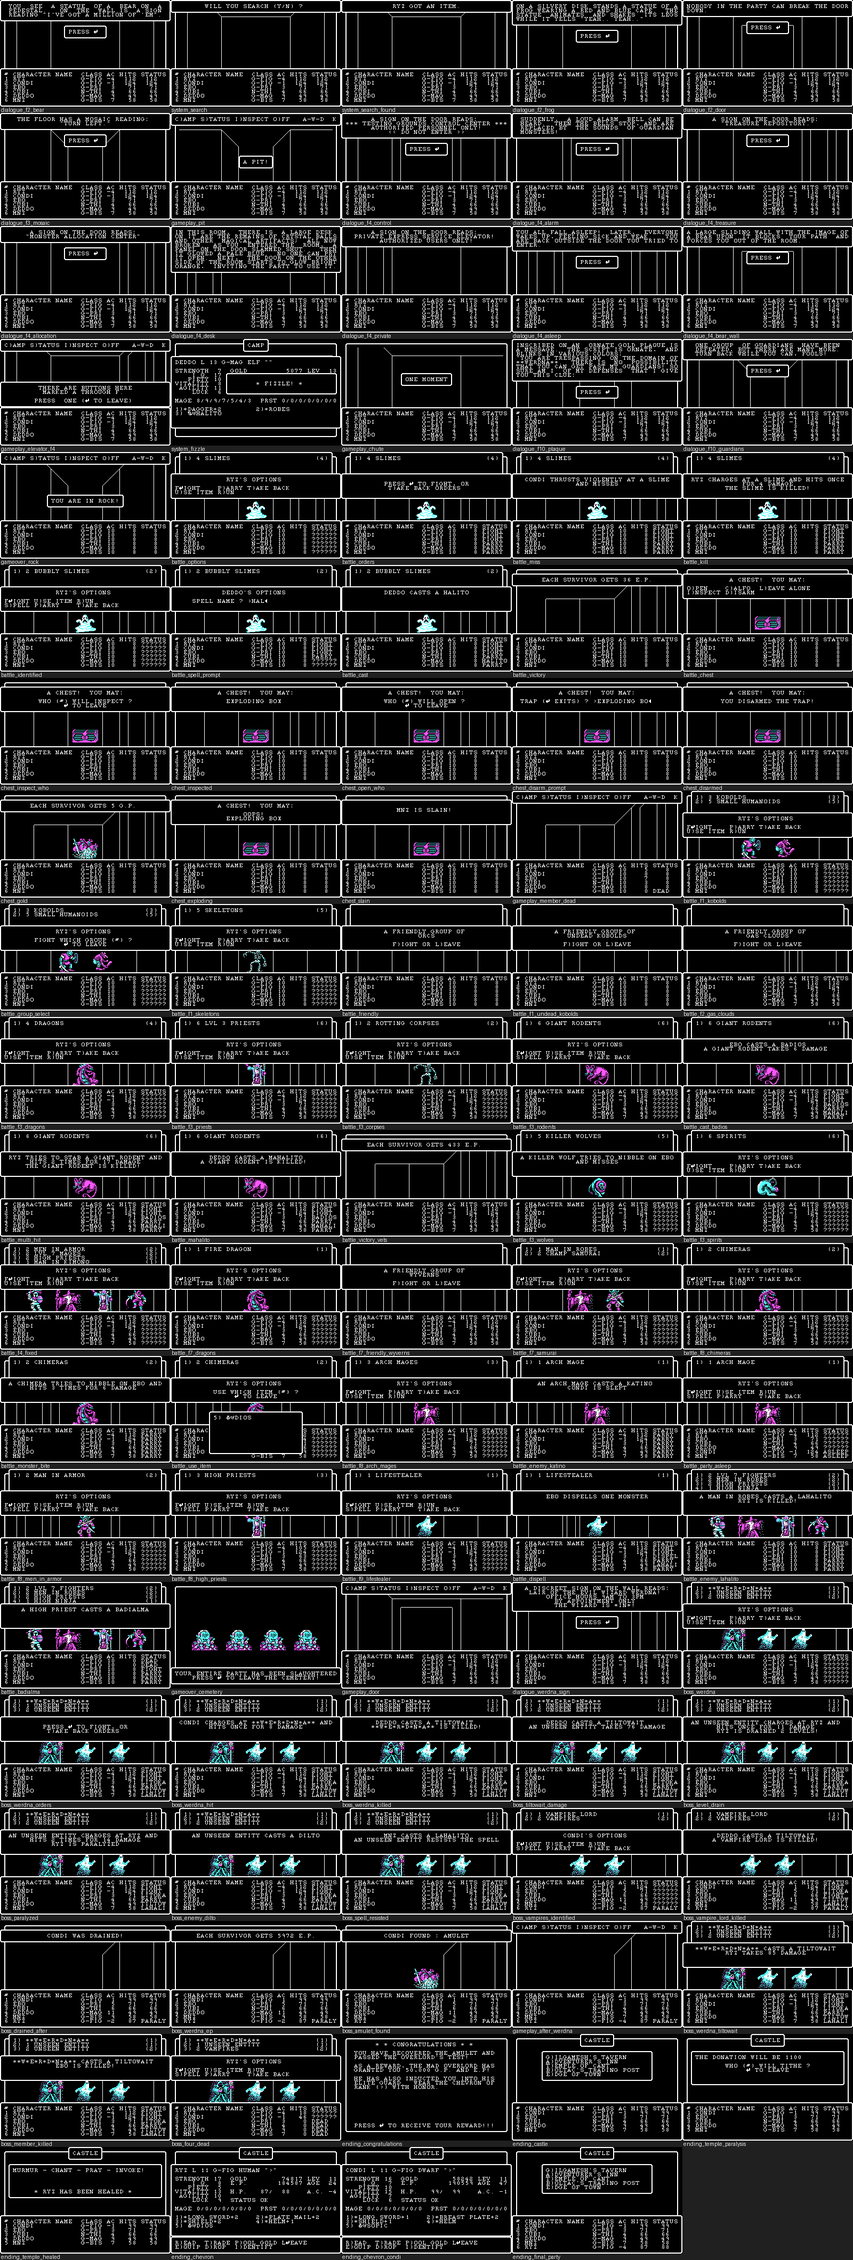
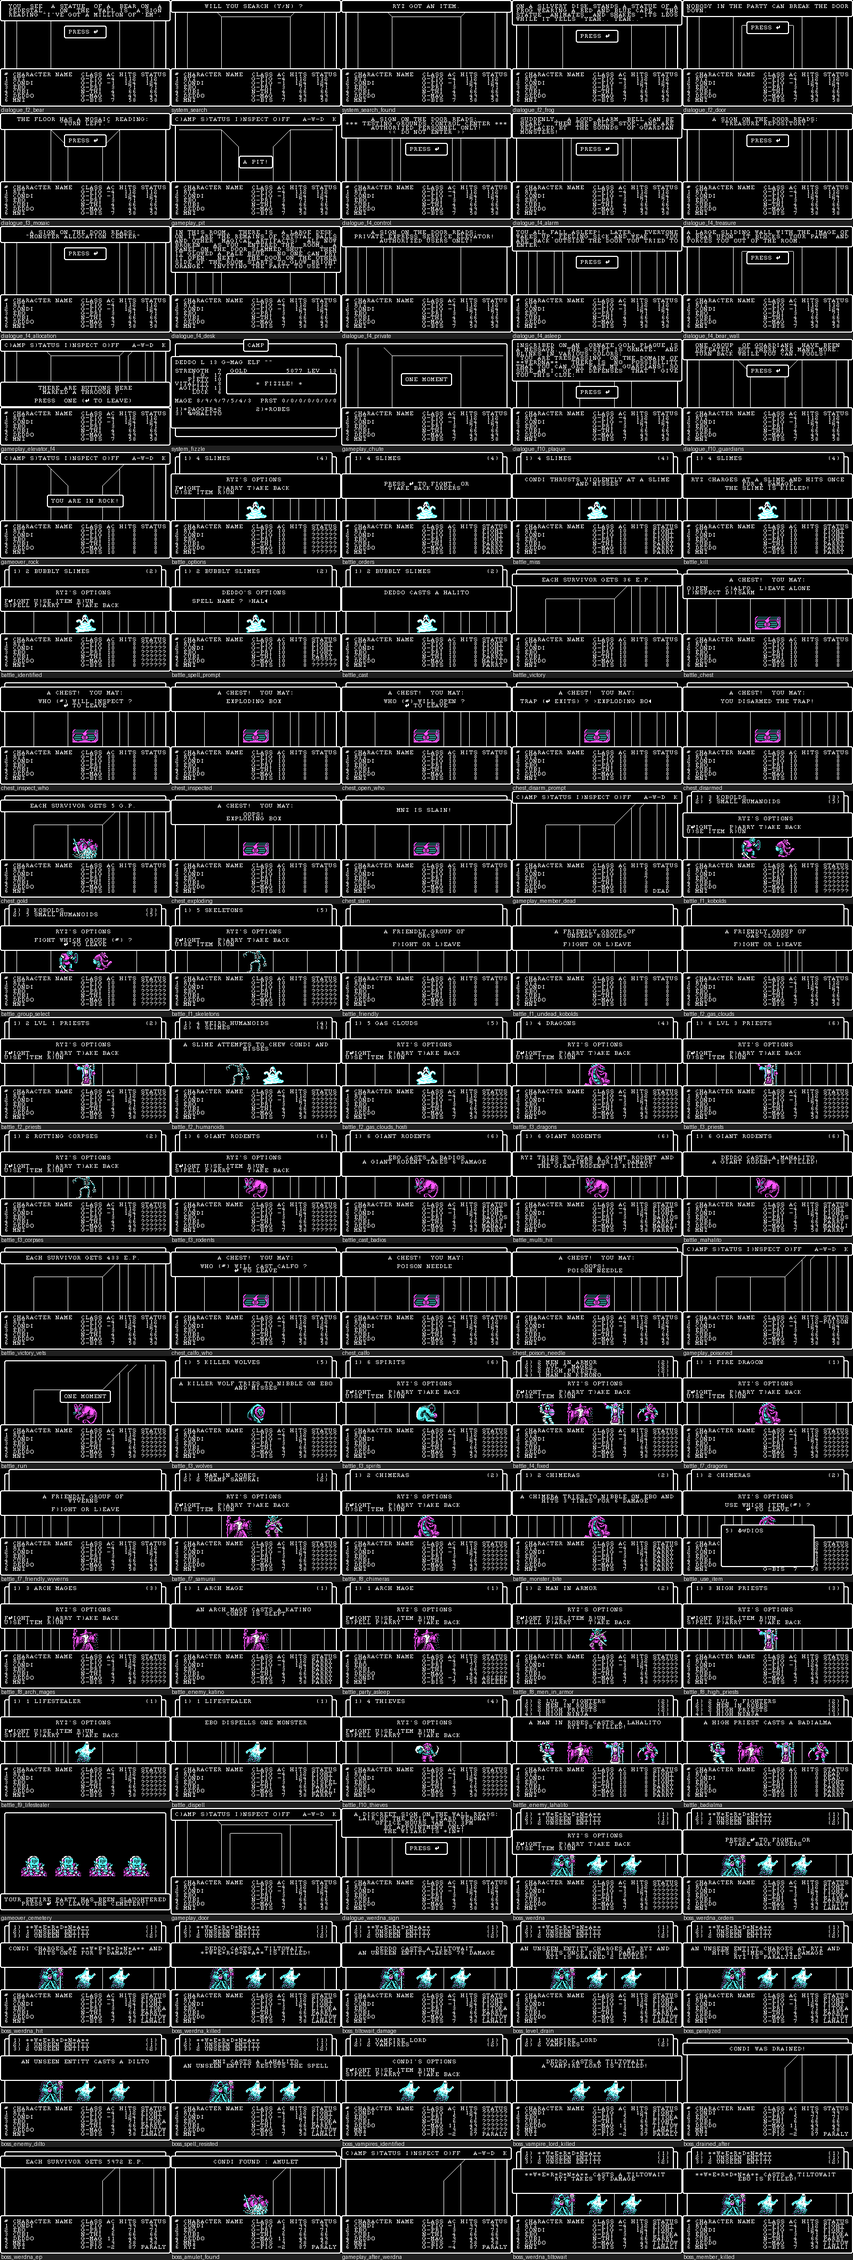
wizardry (DOS): capture round 2 - Calfo, poison needle, run, floors 2 and 10 fights (208 shots)
Claude-Session: https://claude.ai/code/session_011YfKegpS5y4sVPPForxFoG

diff --git a/games/dos/wizardry/shots/main/index.md b/games/dos/wizardry/shots/main/index.md
@@ -1,6 +1,6 @@
 # Wizardry: Proving Grounds of the Mad Overlord (DOS) - shots: main
 
-Platform dos, region na, model ega-315, ROM SHA-1 `32c93888de1e0def3485cb667a1ddd9844189035`. 199 shots. Contact sheet: [wizardry_dos_na_set_sheet.png](wizardry_dos_na_set_sheet.png). Originals here, 3x nearest-neighbour copies with the same names in `3x/`. File names: `<game>_<platform>_<region>_<category>_<id>.png`.
+Platform dos, region na, model ega-315, ROM SHA-1 `32c93888de1e0def3485cb667a1ddd9844189035`. 208 shots. Contact sheet: [wizardry_dos_na_set_sheet.png](wizardry_dos_na_set_sheet.png). Originals here, 3x nearest-neighbour copies with the same names in `3x/`. File names: `<game>_<platform>_<region>_<category>_<id>.png`.
 
 | id | category | caption | settled | image |
 |---|---|---|---|---|
@@ -149,6 +149,9 @@ Platform dos, region na, model ega-315, ROM SHA-1 `32c93888de1e0def3485cb667a1dd
 | battle_friendly | battle | "A friendly group of Orcs" - F)ight or L)eave | yes | [png](wizardry_dos_na_battle_battle_friendly.png) [3x](3x/wizardry_dos_na_battle_battle_friendly.png) |
 | battle_f1_undead_kobolds | battle | Floor 1: a friendly group of Undead kobolds | yes | [png](wizardry_dos_na_battle_battle_f1_undead_kobolds.png) [3x](3x/wizardry_dos_na_battle_battle_f1_undead_kobolds.png) |
 | battle_f2_gas_clouds | battle | Floor 2: a friendly group of Gas clouds | yes | [png](wizardry_dos_na_battle_battle_f2_gas_clouds.png) [3x](3x/wizardry_dos_na_battle_battle_f2_gas_clouds.png) |
+| battle_f2_priests | battle | Floor 2: 2 Lvl 1 priests | yes | [png](wizardry_dos_na_battle_battle_f2_priests.png) [3x](3x/wizardry_dos_na_battle_battle_f2_priests.png) |
+| battle_f2_humanoids | battle | Floor 2: Weird humanoids and Slimes; a slime chews at CONDI and misses | yes | [png](wizardry_dos_na_battle_battle_f2_humanoids.png) [3x](3x/wizardry_dos_na_battle_battle_f2_humanoids.png) |
+| battle_f2_gas_clouds_hostile | battle | Floor 2: 5 Gas clouds, hostile this time | yes | [png](wizardry_dos_na_battle_battle_f2_gas_clouds_hostile.png) [3x](3x/wizardry_dos_na_battle_battle_f2_gas_clouds_hostile.png) |
 | battle_f3_dragons | battle | Floor 3: 4 Dragons (unidentified), the veterans surprised them | yes | [png](wizardry_dos_na_battle_battle_f3_dragons.png) [3x](3x/wizardry_dos_na_battle_battle_f3_dragons.png) |
 | battle_f3_priests | battle | Floor 3: 6 Lvl 3 priests | yes | [png](wizardry_dos_na_battle_battle_f3_priests.png) [3x](3x/wizardry_dos_na_battle_battle_f3_priests.png) |
 | battle_f3_corpses | battle | Floor 3: 2 Rotting corpses, undead | yes | [png](wizardry_dos_na_battle_battle_f3_corpses.png) [3x](3x/wizardry_dos_na_battle_battle_f3_corpses.png) |
@@ -157,6 +160,11 @@ Platform dos, region na, model ega-315, ROM SHA-1 `32c93888de1e0def3485cb667a1dd
 | battle_multi_hit | battle | "RYZ tries to stab a giant rodent and hits 3 times ... killed!" | yes | [png](wizardry_dos_na_battle_battle_multi_hit.png) [3x](3x/wizardry_dos_na_battle_battle_multi_hit.png) |
 | battle_mahalito | battle | "DEDDO casts a MAHALITO": a giant rodent is killed | yes | [png](wizardry_dos_na_battle_battle_mahalito.png) [3x](3x/wizardry_dos_na_battle_battle_mahalito.png) |
 | battle_victory_vets | battle | "Each survivor gets 433 E.P." after the rodents | yes | [png](wizardry_dos_na_battle_battle_victory_vets.png) [3x](3x/wizardry_dos_na_battle_battle_victory_vets.png) |
+| chest_calfo_who | battle | C)alfo on the rodents' chest: "Who (#) will cast Calfo?" | yes | [png](wizardry_dos_na_battle_chest_calfo_who.png) [3x](3x/wizardry_dos_na_battle_chest_calfo_who.png) |
+| chest_calfo | battle | EBO's CALFO names the trap: "Poison needle" | yes | [png](wizardry_dos_na_battle_chest_calfo.png) [3x](3x/wizardry_dos_na_battle_chest_calfo.png) |
+| chest_poison_needle | battle | RYZ opens anyway: "Oops! Poison needle" | yes | [png](wizardry_dos_na_battle_chest_poison_needle.png) [3x](3x/wizardry_dos_na_battle_chest_poison_needle.png) |
+| gameplay_poisoned | gameplay | After the chest: RYZ shows POISON in the party window | yes | [png](wizardry_dos_na_gameplay_gameplay_poisoned.png) [3x](3x/wizardry_dos_na_gameplay_gameplay_poisoned.png) |
+| battle_run | battle | R)un from 6 Giant rodents: the party flees - "One moment" | yes | [png](wizardry_dos_na_battle_battle_run.png) [3x](3x/wizardry_dos_na_battle_battle_run.png) |
 | battle_f3_wolves | battle | Floor 3: 5 Killer wolves strike first - one nibbles at CONDI and misses | yes | [png](wizardry_dos_na_battle_battle_f3_wolves.png) [3x](3x/wizardry_dos_na_battle_battle_f3_wolves.png) |
 | battle_f3_spirits | battle | Floor 3: 6 Spirits | yes | [png](wizardry_dos_na_battle_battle_f3_spirits.png) [3x](3x/wizardry_dos_na_battle_battle_f3_spirits.png) |
 | battle_f4_fixed | battle | Floor 4 guard room: men in armor, Lvl 7 mages, high priests, man in kimono | yes | [png](wizardry_dos_na_battle_battle_f4_fixed.png) [3x](3x/wizardry_dos_na_battle_battle_f4_fixed.png) |
@@ -173,6 +181,7 @@ Platform dos, region na, model ega-315, ROM SHA-1 `32c93888de1e0def3485cb667a1dd
 | battle_f8_high_priests | battle | Floor 8: 3 High priests | yes | [png](wizardry_dos_na_battle_battle_f8_high_priests.png) [3x](3x/wizardry_dos_na_battle_battle_f8_high_priests.png) |
 | battle_f9_lifestealer | battle | Floor 9: a Lifestealer | yes | [png](wizardry_dos_na_battle_battle_f9_lifestealer.png) [3x](3x/wizardry_dos_na_battle_battle_f9_lifestealer.png) |
 | battle_dispell | battle | D)ispell by EBO: "EBO dispells one monster" (the Lifestealer) | yes | [png](wizardry_dos_na_battle_battle_dispell.png) [3x](3x/wizardry_dos_na_battle_battle_dispell.png) |
+| battle_f10_thieves | battle | Floor 10: 4 Thieves | yes | [png](wizardry_dos_na_battle_battle_f10_thieves.png) [3x](3x/wizardry_dos_na_battle_battle_f10_thieves.png) |
 | battle_enemy_lahalito | battle | Level 1 party on floor 4: "A man in robes casts a LAHALITO - RYZ is killed!" | yes | [png](wizardry_dos_na_battle_battle_enemy_lahalito.png) [3x](3x/wizardry_dos_na_battle_battle_enemy_lahalito.png) |
 | battle_badialma | battle | "A high priest casts a BADIALMA" - RYZ, CONDI and EBO already DEAD | no | [png](wizardry_dos_na_battle_battle_badialma.png) [3x](3x/wizardry_dos_na_battle_battle_badialma.png) |
 | gameover_cemetery | gameover | Tombstones: "Your entire party has been slaughtered. Press Enter ..." | yes | [png](wizardry_dos_na_gameover_gameover_cemetery.png) [3x](3x/wizardry_dos_na_gameover_gameover_cemetery.png) |

diff --git a/games/dos/wizardry/design/systems.md b/games/dos/wizardry/design/systems.md
@@ -45,15 +45,15 @@ harder and the player's own paper maps grow, since the game shows no map (DUMAPI
 | Conflict | Friendly groups | some groups are friendly: F)ight or L)eave | F, L | - | - | `battle_friendly`, `battle_f1_undead_kobolds`, `battle_f2_gas_clouds`, `battle_f7_friendly_wyverns` | shown |
 | Conflict | Dispell | priests (and the elite classes) turn undead: "EBO dispells one monster"; dispelled monsters give no E.P. | D | 0 E.P. (verified for the Lifestealer) | - | `battle_dispell` | shown |
 | Conflict | Use item | U)se in battle or camp casts the item's spell (potion of Dios heals) | U, item number, target | - | - | `battle_use_item`, `camp_use_item` | shown |
-| Conflict | Run | R)un tries to flee; on a failed try the round goes on | R | - | - | - | described: one try failed, no clean frame of the flight |
-| Conflict | Status conditions | asleep (Katino), paralyzed, dead, ashes, lost; sleeping and paralyzed members move to the back of the party | - | - | - | `battle_enemy_katino`, `battle_party_asleep`, `boss_paralyzed`, `boss_four_dead`, `temple_lost_party` | shown |
+| Conflict | Run | R)un tries to flee; on success "One moment" and the party is back in the maze, on a failed try the monsters act | R | 3 of 4 timings fled from six giant rodents | - | `battle_run` | shown |
+| Conflict | Status conditions | asleep (Katino), poisoned (`gameplay_poisoned`), paralyzed, dead, ashes, lost; sleeping and paralyzed members move to the back of the party | - | - | - | `battle_enemy_katino`, `battle_party_asleep`, `boss_paralyzed`, `boss_four_dead`, `temple_lost_party` | shown |
 | Conflict | Spell resistance | monsters can resist a spell ("an unseen entity resists the spell") | - | - | - | `boss_spell_resisted` | shown |
 | Opponents | Groups | up to four named groups with counts; a group's picture shows in the view | - | - | content §3 | `battle_f4_fixed`, `boss_werdna` | shown |
 | Opponents | Monster spells | monster casters use the party's spell list: Katino, Lahalito, Badialma, Dilto, Molito, Tiltowait | - | - | content §3 | `battle_enemy_katino`, `battle_enemy_lahalito`, `battle_badialma`, `boss_enemy_dilto`, `boss_werdna_tiltowait` | shown |
 | Opponents | Fixed fights | squares that always start a fight (floor 3, 4, 7 and Werdna on 10) | - | - | [maps](maps/floors.txt) | `battle_f4_fixed`, `battle_f7_dragons`, `boss_werdna` | shown |
-| Opponents | Random encounters | fight zones ("rooms") start fights when entered or turned in; the group comes from the floor's encounter table | - | floor 1: monsters 0-5, floor 10: 70-86 (disk data) | [maps](maps/floors.txt) | `battle_f1_kobolds` ... `battle_f9_lifestealer` | shown |
+| Opponents | Random encounters | fight zones ("rooms") start fights when entered or turned in; the group comes from the floor's encounter table | - | floor 1: monsters 0-5, floor 10: 70-86 (disk data) | [maps](maps/floors.txt) | `battle_f1_kobolds`, `battle_f2_priests`, `battle_f2_humanoids`, `battle_f2_gas_clouds_hostile`, `battle_f9_lifestealer`, `battle_f10_thieves` | shown |
 | Items and equipment | Equipment | weapons, armour, shields, helms, gauntlets, misc; equipped items marked "*"; armour class drops from 10 | E)quip | AC -4 with plate+2, shield+2, helm+1 | [items](items.md) | `inventory_sheet_vet`, `menu_castle_vets` | shown |
-| Items and equipment | Chests and traps | a won fight may leave a chest: open, Calfo, leave, inspect, disarm; a trap goes off on opening (exploding box: a member slain); disarm needs the trap's name typed | O C L I D | - | §6 | `battle_chest`, `chest_*` | shown |
+| Items and equipment | Chests and traps | a won fight may leave a chest: open, Calfo (a priest names the trap), leave, inspect, disarm; a trap goes off on opening (exploding box: a member slain; poison needle: POISON); disarm needs the trap's name typed | O C L I D | - | §6 | `battle_chest`, `chest_calfo_who`, `chest_calfo`, `chest_poison_needle`, `chest_exploding`, `chest_disarmed` | shown |
 | Items and equipment | Identification and curses | found items are unknown ("?SWORD"); a bishop identifies (I on the sheet) or Boltac for gold; a cursed item ("-") stays equipped until Boltac uncurses (removes) it | I, U | - | [items](items.md) | `shop_identify`, `shop_identified`, `inventory_bishop_identify`, `inventory_identified`, `shop_uncurse` | shown |
 | Abilities and magic | Spells | typed by name ("Spell name ?") in battle and camp; 21 mage and 29 priest spells in 7 levels, points per level | S, name, Enter, target | points per level | content §5 | `battle_spell_prompt`, `inventory_mage_book`, `inventory_priest_book`, `camp_cast_whom` | shown |
 | Abilities and magic | Utility spells | DUMAPIC reports the position; MALOR teleports by offsets (E/W/N/S/U/D); healing with DIOS | camp | - | content §5 | `system_dumapic`, `camp_malor` | shown |
@@ -118,7 +118,7 @@ harder and the player's own paper maps grow, since the game shows no map (DUMAPI
   taken out of the party at the Castle.
 
 ## Open questions
-- Run: the chance to flee and what decides it.
+- Run: the chance to flee and what decides it (3 of 4 timings fled from the rodents).
 - The searchable statues on floor 1 (chicken, hooded man, boar) asked nothing in any approach tried (see
   findings); Murphy's ghost was not met.
-- Poison, criticals and stoning were not seen.
+- Criticals and stoning were not seen.

diff --git a/games/dos/wizardry/design/content.md b/games/dos/wizardry/design/content.md
@@ -42,11 +42,13 @@ Unidentified names as shown first; the real name where the fight revealed it.
 | Kobolds, Small humanoids | floor 1 | small armed humanoids | two groups at once | `battle_f1_kobolds` |
 | Skeletons | floor 1 | skeleton | undead | `battle_f1_skeletons` |
 | Orcs, Undead kobolds | floor 1 | friendly groups | let the party leave | `battle_friendly`, `battle_f1_undead_kobolds` |
-| Gas clouds | floor 2 | friendly | - | `battle_f2_gas_clouds` |
+| Gas clouds | floor 2 | cloud; friendly or hostile | - | `battle_f2_gas_clouds`, `battle_f2_gas_clouds_hostile` |
+| Lvl 1 priests | floor 2 | robed human | - | `battle_f2_priests` |
+| Weird humanoids, Slimes | floor 2 | two groups | strike first | `battle_f2_humanoids` |
 | Dragons (unidentified) | floor 3 | small dragon | - | `battle_f3_dragons` |
 | Lvl 3 priests | floor 3 | robed human | casters | `battle_f3_priests` |
 | Rotting corpses | floor 3 | zombie | undead | `battle_f3_corpses` |
-| Giant rodents | floor 3 | rat | six at a time, some run away | `battle_f3_rodents`, `battle_cast_badios`, `battle_multi_hit`, `battle_mahalito`, `battle_victory_vets` |
+| Giant rodents | floor 3 | rat | six at a time, some run away | `battle_f3_rodents`, `battle_cast_badios`, `battle_multi_hit`, `battle_mahalito`, `battle_victory_vets`, `battle_run` |
 | Killer wolves | floor 3 | wolf | strike first | `battle_f3_wolves` |
 | Spirits | floor 3 | ghost | - | `battle_f3_spirits` |
 | Men in armor, Lvl 7 mages, High priests, Man in kimono | floor 4 guard room (fixed) | four groups of humans | Lahalito and Badialma kill a level 1 party in one round | `battle_f4_fixed`, `battle_enemy_lahalito`, `battle_badialma`, `gameover_cemetery` |
@@ -57,6 +59,7 @@ Unidentified names as shown first; the real name where the fight revealed it.
 | Arch mages | floor 8 | robed mage | cast Katino: party members fall asleep | `battle_f8_arch_mages`, `battle_enemy_katino`, `battle_party_asleep` |
 | Men in armor | floor 8 | armoured fighter | - | `battle_f8_men_in_armor` |
 | High priests | floor 8 | priest | - | `battle_f8_high_priests` |
+| Thieves | floor 10 | thief with a blade | - | `battle_f10_thieves` |
 | Lifestealer | floor 9 | ghost | undead, casts Katino; dispelled | `battle_f9_lifestealer`, `battle_dispell` |
 | Vampire lord, Vampires ("unseen entities") | floor 10, Werdna's guards | ghost-like picture | drain 2 levels per touch, paralyze, cast Dilto and Molito; resist spells | `boss_level_drain`, `boss_paralyzed`, `boss_enemy_dilto`, `boss_spell_resisted`, `boss_vampires_identified`, `boss_vampire_lord_killed`, `boss_drained_after` |
 | Werdna ("**W*E*R*D*N*A**", or "Man in robes" unidentified) | floor 10 (17,3) | robed wizard with a staff | boss; casts Tiltowait; 71 hit points in this fight (RAM) | `boss_werdna`, `boss_werdna_orders`, `boss_werdna_hit`, `boss_werdna_killed`, `boss_tiltowait_damage`, `boss_werdna_tiltowait`, `boss_member_killed`, `boss_four_dead`, `boss_werdna_ep` |
@@ -75,7 +78,7 @@ A spread over types and tiers; the full table with numbers and prices is [items.
 | Ring of Porfic | ring | found | identified by the bishop | `inventory_bishop_identify`, `inventory_identified` |
 | Robe of curses ("-") | cursed armour | found | removed by Boltac's uncurse | `shop_uncurse`, `shop_uncursed` |
 | Statue of bear | quest item | floor 2 statue | opens the floor 2 door (source) | `system_search_found` |
-| Chest | container | after fights | trapped loot | `battle_chest`, `chest_inspect_who`, `chest_inspected`, `chest_open_who`, `chest_disarm_prompt`, `chest_disarmed`, `chest_gold`, `chest_exploding`, `chest_slain` |
+| Chest | container | after fights | trapped loot | `battle_chest`, `chest_inspect_who`, `chest_inspected`, `chest_open_who`, `chest_disarm_prompt`, `chest_disarmed`, `chest_gold`, `chest_exploding`, `chest_slain`, `chest_calfo_who`, `chest_poison_needle`, `gameplay_poisoned` |
 | Werdna's amulet (item 94) | quest item | Werdna | ends the game when brought to the castle | `boss_amulet_found`, `ending_congratulations` |
 
 ## 5. Abilities and spells
@@ -88,6 +91,7 @@ A spread over types and tiers; the full table with numbers and prices is [items.
 | DILTO | mage 2 | - | darkness on a group (cast by the vampires) | `boss_enemy_dilto` |
 | MALOR | mage 7 | - | teleport by offsets (in camp) | `camp_malor` |
 | TILTOWAIT | mage 7 | - | huge damage to every monster (or every member, when Werdna casts it) | `boss_werdna_killed`, `boss_tiltowait_damage`, `boss_werdna_tiltowait` |
+| CALFO | priest 2 | - | names a chest's trap | `chest_calfo` |
 | DIOS | priest 1 | - | heals one member | `camp_cast_whom` |
 | BADIOS | priest 1 | - | wounds one monster | `battle_cast_badios` |
 | LITOKAN | priest 5 | - | flames on a group | `boss_werdna_orders` |

diff --git a/games/dos/wizardry/design/interface.md b/games/dos/wizardry/design/interface.md
@@ -35,7 +35,7 @@ as **Observation:** with the reason, never as a fact.
 - **State visibility:** the party window always shows class, armour class, hit points and status (the
   status column shows the maximum hit points when the character is well, else DEAD, ASLEEP, PARALY, LOST,
   ASHES; in battle the order given or "??????") (verified: `battle_orders`, `boss_four_dead`,
-  `temple_lost_party`). Position, floor and facing are never shown except by DUMAPIC (verified:
+  `temple_lost_party`, `gameplay_poisoned`). Position, floor and facing are never shown except by DUMAPIC (verified:
   `system_dumapic`). Item marks: "*" equipped, "-" cursed, "?" unknown, "#" unusable (verified, [items](items.md)).
 - **Help and onboarding:** none beyond the letter menus; the title warns "You cannot play without making a
   scenario disk!" (verified: `title_screen`).
@@ -72,11 +72,11 @@ Type: `screen`, `menu`, `prompt`, `list`, `message`, `hud element`, `transition`
 | Square prompts | prompt | stairs, elevators, statues | move, search | "Stairs up, take them (Y/N)?", "buttons A through D/F", "Will you search (Y/N)?" | Y N, letters | "RYZ got an item." | `gameplay_stairs`, `gameplay_elevator`, `gameplay_elevator_f4`, `system_search`, `system_search_found` | - |
 | Signs and scenes | message | stepping on a message square | story, hints, gates | framed text, "Press Enter" | Enter | - | `dialogue_*` | long texts fill the whole top box |
 | Square events | message | pit, chute, rock | hazards | "A pit!", "One moment", "You are in rock!" | - | - | `gameplay_pit`, `gameplay_chute`, `gameover_rock` | - |
-| Battle | screen | encounter | fight | monster groups with counts, member options, picture, party orders | F P S D U R T, 1-4 | "Press Enter to fight, or T)ake back orders" | `battle_options`, `battle_orders`, `battle_group_select`, `battle_use_item`, `boss_werdna_orders` | - |
+| Battle | screen | encounter | fight | monster groups with counts, member options, picture, party orders | F P S D U R T, 1-4 | "Press Enter to fight, or T)ake back orders"; R)un: "One moment" | `battle_options`, `battle_orders`, `battle_group_select`, `battle_use_item`, `boss_werdna_orders`, `battle_run` | - |
 | Battle messages | message | each action | report | one blow or spell per message, its result on the next line | - | - | `battle_kill`, `battle_miss`, `battle_cast`, `battle_enemy_katino`, `boss_werdna_killed` | timed, no key needed |
 | Friendly group | prompt | encounter | choose | "A friendly group of ..." | F, L | - | `battle_friendly` | - |
 | Rewards | message | end of a fight | report | "Each survivor gets N E.P." / "N G.P.", "NAME found: ITEM" over the treasure picture | - | - | `battle_victory`, `chest_gold`, `boss_amulet_found` | - |
-| Chest | menu | after a won fight | loot | chest picture, five choices, "Who (#) will ...?" | O C L I D, digit, trap name | "Oops! Exploding box", "You disarmed the trap!" | `battle_chest`, `chest_*` | - |
+| Chest | menu | after a won fight | loot | chest picture, five choices, "Who (#) will ...?" | O C L I D, digit, trap name | "Oops! Exploding box", "You disarmed the trap!", the trap's name after Calfo or Inspect | `battle_chest`, `chest_inspect_who`, `chest_inspected`, `chest_open_who`, `chest_disarm_prompt`, `chest_disarmed`, `chest_gold`, `chest_exploding`, `chest_slain`, `chest_calfo_who`, `chest_calfo`, `chest_poison_needle` | the result replaces the menu for about 2 s, then the menu comes back |
 | Cemetery | screen | party killed | game over | tombstones, "Press Enter to leave the cemetery" | Enter | - | `gameover_cemetery` | - |
 | Ending | screen | castle with the amulet | win | congratulations, reward, chevron | Enter | - | `ending_congratulations`, `ending_castle`, `ending_final_party` | - |
 

diff --git a/games/dos/wizardry/playbook.md b/games/dos/wizardry/playbook.md
@@ -111,7 +111,7 @@ throw away keys typed before them (inferred), so keep the waits.
   slaughtered. Press Enter to leave the cemetery!".
 
 ## Shot plan
-Set `main` captured 2026-11-19 (game-capture): 199 shots from power-on to the ending, verified and published
+Set `main` captured 2026-11-19 (game-capture): 208 shots from power-on to the ending, verified and published
 (`shots.txt`, `shots/main/`). The routes were chosen in batches with `tools/try.py` (many candidate routes in
 parallel, the last K frames tiled) and written straight into the work shot list; scratch plan files were
 `work/cap/wizardry/plan/0N_*.txt`. How each area was reached:
@@ -128,9 +128,11 @@ parallel, the last K frames tiled) and written straight into the work shot list;
 - Battle frames: rounds are long; take a timeline (`try.py --frames 50` over `w40` tokens) and pick the frame
   (`enter,w40*N,!`).
 - Werdna: `@gwerdna` and the real fight below (Strategy); ending `@gending`, `@gafter`, `@final`.
+- Fleeing: `battle_run` (R)un with `w5` before it fled; `w1` failed). Calfo/poison: the rodents' chest
+  (`chest_calfo`, `gameplay_poisoned`).
 Not captured (reasons in the report and design/): Murphy's ghost (floor 1 statues give no search, findings),
-R)un succeeding, poison, criticals, Calfo, rescue of bodies, a spinner (no visible effect), Leave game (no
-in-game screen: the loader prints "Thanks for playing Wizardry!" in DOS text mode).
+criticals, stoning, rescue of bodies, a spinner (no visible effect), Leave game (no in-game screen: the
+loader prints "Thanks for playing Wizardry!" in DOS text mode).
 
 ## Strategy and walkthrough notes
 - Cataloguing: never grind. `VET` (at the Castle, then any menu change to redraw) makes the party level 13
